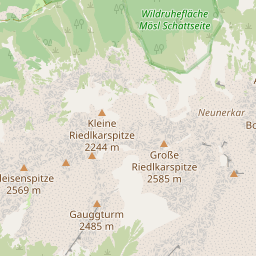
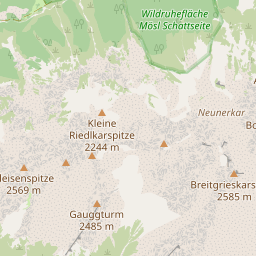
Added Frau Hitt hike and map viz blog post.

Changed region(s): [[0.5, 0.5938, 1.0, 0.7812]]

diff --git a/src/routes/projects/data-viz/hikes/[slug]/+page.svelte b/src/routes/projects/data-viz/hikes/[slug]/+page.svelte
@@ -426,7 +426,7 @@
 						<li>Ascent: {getDistance(data.properties.ascent ?? 0)}</li>
 						<li>Descent: {getDistance(data.properties.descent ?? 0)}</li>
 						<li>Dates: {data.properties.dates.map((x) => new Date(x).toLocaleDateString('en-us', { year:"numeric", month:"short", day:"numeric"})).join('; ')}</li>
-						<li><a href={data.properties.filePath}>{data.properties.fileType}</a></li>
+						<li><a href={data.properties.filePath}>{data.properties.fileType}</a>, <a href={data.gpxPath}>GPX</a></li>
 					</ul>
 				</div>
 			</div>

diff --git a/src/lib/data/map-providers.js b/src/lib/data/map-providers.js
@@ -18,7 +18,7 @@ export const providers = {
 		tileset: 'mapycz-outdoor',
 		source: 'https://en.mapy.cz/',
 		origin: 'https://en.mapy.cz',
-		url: (/** @type {number} */ x, /** @type {number} */ y, /** @type {number} */ z) => `https://tilecache.mapy.cz/turist-en/${z}-${x}-${y}`,
+		url: (/** @type {number} */ x, /** @type {number} */ y, /** @type {number} */ z) => `https://mapserver.mapy.cz/turist-en/${z}-${x}-${y}`,
 	},
 	wikimedia: {
 		format: 'png',

diff --git a/src/routes/projects/data-viz/hikes/[slug]/+page.ts b/src/routes/projects/data-viz/hikes/[slug]/+page.ts
@@ -90,6 +90,7 @@ export const load: PageLoad = async ({ fetch, params }) => {
 		return {
 			map: meta,
 			properties: properties,
+			gpxPath: properties.filePath.replace('geojson', 'gpx').replace('json', 'gpx'),
 			origin: originData,
 			statistics: statistics
 				? ((await buildStatistics(fetch, statistics, height))?.layers2d?.join(''))

diff --git a/static/_projects/data-viz/hikes/markdown/2025-03-23-frau_hitt.md b/static/_projects/data-viz/hikes/markdown/2025-03-23-frau_hitt.md
@@ -1,0 +1,31 @@
+Since Mikuláš wasn't going to stay in Germany for much longer, I wanted to do a more challenging hike to top off the adventures we had together. Thus, I suggested one from our backlog, going from Scharnitz to Innsbruck across the mountains. I've never hiked there before, only taking a cable car to Hafelekarspitze, so I had only a rough estimate of the difficulty based on my fuzzy memory and the data on the map. Still, this was an old goal of mine and the occasion was worth the risk, so I bit the bullet and went ahead with the idea.
+
+The two of us arrived in Scharnitz at 8:30 after waking up at 3:30, being already sleepy without even starting the hike. I envisioned this would be the case, so I went to Yorma's in advance and bought a cola bottle with a high dosage of caffeine and sugar to fuel me at least for the beginning of the hike.
+
+### Easy beginning
+
+The walk through Scharnitz all the way to Gleirsch Klamm was easy and uneventful, the spring was taking over the land, so I kept getting distracted by the flowers starting to bloom. Closer to the gorge we came across many scenic points, stopping to take some photos every time. Around that point we saw a sign saying "Möslalm täglich geöffnet", which gave me a bit of hope that we would be able to get a drink and visit the restroom, as that building was the last one before the steepest section of the climb.
+
+When we arrived at the gorge though the realization hit me. My shoes are not up to the task of walking on the slippery paths on the side of the speedy mountain stream that carved its way through the rocky hill, so it was time to put on the shoe spikes. We continued through all the way to Gleirschschlucht-Blick and onwards across the river, where we discovered a frog sitting quite high up the hill. As we continued on, we saw a lot of frogs nesting and taking care of laid eggs, jumping out of the way or at our feet as we walked by. Treading carefully trying not to disturb or hurt the frogs, we went ahead to Jagdhütte Gleirschtal, where we started to get a good look at the ascent that was ahead of us.
+
+### The trouble is right around the corner
+
+Passing by the obviously closed Möslalm we made a quick snack break near the gate. We also saw a charging station for e-bikes, which was a nice touch to such a remote location. There, I saw a huge ant nest swarming with tiny bugs hard at work, all on the sunny side. Seeing them gave me hope that the nature higher up would have also transitioned to spring by now. Nevertheless, my hopes were immediately ruined as the path straight ahead was covered by a thick 50 cm layer of snow, getting thicker with each gained meter of altitude.
+
+We kept going from one patch of uncovered moss under a tree to another, getting snow out of our shoes every time, until eventually we reached the actual bottom of the mountain. There, the hard part of the hike began. The snow at that point was more than a meter deep, we kept either slipping down or getting stuck. At 1700 m (according to [mapy.cz](mapy.cz)) my shoes had puddles of snow water inside them, forcing us to walk faster to not freeze our legs off. At 1800 m sections of the snow started getting covered in ice, making slipping down even more likely. Considering the steep incline and abundance of cliffs with high drop-offs, this wasn't a fate I wanted to happen, so I slowed down even more, leaving Mikuláš far ahead of me. At 1850 m we decided to horizontally cross to the other path, as this one kept getting more dangerous and difficult to tread, and the other path had a slightly easier section.
+
+### Hitting rock bottom
+
+The real difficulty began at 1950-2000 m above sea level. This section on the map is marked as "Section requiring via ferrata equipment" which we didn't have, and it showed. While my friend was doing better than me, slowly making progress towards the top and waiting for me, while trying not to freeze himself, I was desparately slipping down all the time, grasping at the ice and snow with both my arms and feet to not slide too far back, destroying my whole progress and tiring me even faster. Every few successful meters up I had to stop to catch a breath, as my vision started narrowing from the lack of relaxation and oxygen. The total 700 m vertical climb took about an insane 2.5 hours, but at the end we both managed to get to Frau Hitt which marked the highest point of the route.
+
+It was already getting dark, but there was an easily visible Höttinger-Alm which we set as our next destination. At that point I was feeling nauseous because of all the strain I put on myself, but being at the top of the mountain, there was no other way but down. The next problem I faced was that the way down was either too steep and slippery, because the sun was melting the thin layer of snow on the rocky southern side of the mountain range, or covered in too deep of a snow layer to go down fast without getting my already cold and hardly mobile feet even more cold and wet because of a new portion of snow water.
+
+### Dashing back down
+
+Mikuláš went down to a more level spot on the hill, having an easier time traversing the rough terrain, but I was already so scared from slipping down on the way up that I didn't want to take my chances and took way too much time. Getting closer to the Alm, we saw a herd of mountain goats just a few meters ahead of us, which made for another great memory, since I've never seen these goats from such a close distance. We waited and filmed them while they passed us, climbing higher on the rocks, continuing to the hut and reaching it just as the sun hid behind the horizon, covering the whole valley in evenfall darkness.
+
+We put on our head lamps, stretched a bit, and checked the train schedule. To our disappointment, the last RB to Garmisch was going to leave Innsbruck at roughly 20:40, meaning we had about 90 minutes to go all the way down to the station. The route ahead of us was 6.3 km long and 915 m high, but having no other choice, we headed down, trying not to trip or over-exhaust our knees. The panoramic view of the city beneath us showed a great number of churches and old buildings, taking some focus away from the rush and tiredness, so we managed to get to the city center some time ahead of schedule, giving us a chance to walk across the old town while taking in the architecture. Most of the dwellers were already at home preparing to go to bed, so we had no trouble navigating the area and enjoying the mostly empty streets that showed us their secrets and hidden treasures like small statues and frescoes. At the station we headed straight into the train and even had about 5-10 minutes to buy a ticket and discuss the highlights of the trip.
+
+All in all, it was one of the best hikes I've had so far, leaving lasting memories of troubles and triumphs along the way, and I highly suggest it to skilled hikers that want to take on the challenge in late summer, when the snow has fully melted. Also, I want to give a separate thank you to Mikuláš, who put up with my slowness and whining, while helping me and cheering me up along the whole way. This would have been impossible for me had he not been there.
+
+P.S. There's a [blog post](/blog/2025-03-28-hiking-routes/) going through how I make the routes for the website that you can read.

diff --git a/static/_blog/2025-03-28-hiking-routes.md b/static/_blog/2025-03-28-hiking-routes.md
@@ -1,0 +1,126 @@
+# How I make the hiking routes for the website
+
+Since the hiking routes are an important part of my data-viz journey, I wanted
+to briefly describe how I prepare the routes I take for the website. The process
+is divided into a few separate steps:
+1. Finding an interesting hiking route and doing it.
+2. Recording my trip in some way.
+3. Gathering the recorded data and building a route for the hike online.
+4. Exporting all the data and putting it on my website.
+
+There are numerous ways to achieve what I'm doing, but here are the steps I
+usually take.
+
+## Finding a hike
+
+While the selection of hikes, especially in Germany and Austria, may seem
+daunting at first, the search space quickly narrows down as you go. For a
+more automated approach, it's possible to search for mountain peaks with
+an Alpine hut nearby using the [Overpass API](https://overpass-turbo.eu/).
+Suggestions from friends are also taken into account. At the extreme end,
+standing on the top of one mountain it's possible to judge the difficulty
+and excitement of surrounding peaks at a glance, which can guide future
+decisions.
+
+The hike steepness, distance, and duration also play a vital role.
+If I know I've missed a train and a hike is not possible, I might consider
+a quicker hike in the area of the original one.
+
+## Recording the hike
+
+Here I use a couple of methods to make further steps easier. First, if I
+know I'll take a lot of random turns along the way, like in my
+[Herrsching - Tutzing hike](/projects/data-viz/hikes/herrsching_tutzing/), I
+sometimes activate the GPS feature of my fitness bracelet to track the route
+for me. This works well on most routes, but the battery drains very fast and
+the GPS signal is very inaccurate near steep cliffs or mountain sides.
+
+Another trick I use is glancing at Google Maps and waiting for my phone GPS
+to update. This avoids having GPS on all the time, but provides snippets to
+the Google Maps Timeline feature, giving me a chance to review them later.
+Unfortunately, the accuracy of this method varies quite a lot, as Google
+randomly records one point and drops another.
+
+Lastly, I try to take photos with GPS metadata on. This way I can check the
+exact location where I took the photo later. Since I take a billion photos as
+I hike up and down the mountains, this helps me in situations where I don't
+remember, which trail I took.
+
+## Building the route
+
+I try to build the route using
+[OpenRouteService](https://maps.openrouteservice.org/)
+as the ground truth, since it allows me to export really detailed routes in
+multiple formats completely for free and with reasonable limits. On my phone
+I often use [Mapy.cz](https://mapy.com/en/) and [OsmAnd](https://osmand.net/)
+for their offline capabilities, so whenever possible I take them as the main
+reference. They even allow building the routes offline, making them perfect
+for on-the-spot decisions! Still, often that is not enough, so I reference
+the bracelet and photos as needed.
+
+Building the route itself involves placing a bunch of markers along the way
+and instructing the routing algorithm to follow them as close as possible,
+so there is no difficulty there. Sometimes it is hard to force the algorithm
+to follow specific roads, so I have to use a lot of markers, like in my
+[Frau Hitt hike](/projects/data-viz/hikes/frau_hitt/).
+
+### Going off the trail
+
+Sometimes it is necessary to go off the trail, or go through a closed-off
+Naturschutzgebiet path.
+
+If I go off the path, I resort to
+[OpenStreetMap](https://www.openstreetmap.org/) to get the rough coordinates
+of my path and [Mapbox](https://www.mapbox.com/) for the elevation at these
+coordinates. Then, I collect the terrain condition data for these points
+and store them in a notepad for export.
+
+If I go on a closed-off path that is nonetheless present on the map, I use
+the [Overpass API](https://overpass-turbo.eu/) to extract the "way" data,
+get the height of each path endpoint using [Mapy.cz](https://mapy.com/en/)
+and the terrain data using [OpenStreetMap](https://www.openstreetmap.org/).
+I then put everything together into a notepad. This is a very tedious process,
+but at the end I get a map of my exact hike down to a few meters of accuracy.
+For example, I spent around 6 hours fixing the
+[Riedenburg - Kelheim hike](/projects/data-viz/hikes/riedenburg_kelheim/),
+where we took a few turns onto closed-off trails.
+
+## Exporting the data
+
+The export process itself is very simple. In most cases it involves pressing
+the export button on [OpenRouteService](https://maps.openrouteservice.org/)
+to get GeoJSON and GPX versions of the route. I chose GeoJSON as my primary
+format, as it is very easy to work with programmatically, specifically using
+JavaScript. I parse the file to get the hike properties like distance,
+duration, elevation difference, etc. In cases where I go off the allowed path,
+I take the data I stashed away in my notepad and manually put it into the
+exported file. This take a while, but it's not that hard and I can immediately
+see my changes reflected on the respective website page. Since most apps are
+compatible with GPX instead of GeoJSON, I convert one into the other using a
+random online service. Usually [OpenRouteService](https://maps.openrouteservice.org/)
+does the job, but I have used others.
+
+### Tech stack for the visualization
+
+The process I use is also quite simple. I take the hike from a JSON list of
+all the hikes I have and start processing it.
+
+First, I take the "center" of the hike that I manually define and using
+[d3-geo](https://d3js.org/d3-geo) I calculate all the map tiles I'd need to
+display. Map tiles are small square 256x256 pixel images of different sections
+of the map. When you load your favorite maps website, you can see the map
+loading bit by bit using these squares. I then download these tiles from
+several providers to get all the data I need to display. I use
+[Mapbox](https://www.mapbox.com/) for elevation and satellite tiles,
+[OpenStreetMap](https://www.openstreetmap.org/) for the 2D view, and
+[Mapy.cz](https://mapy.com/en/) for the Interactive view.
+
+Then, I use [Three.js](https://threejs.org/) to build the 3D view of the map.
+I parse the GeoJSON file manually and extract all coordinates and height, then
+draw the paths on the 2D, 3D, and Interactive maps.
+
+Finally, I write up the story of the hike using [Markdown](https://www.markdownguide.org/)
+and put it together using [Marked.js](https://marked.js.org/).
+
+Now, with a bit of styling and magic, I put everything together and a page
+for a hike is ready!
